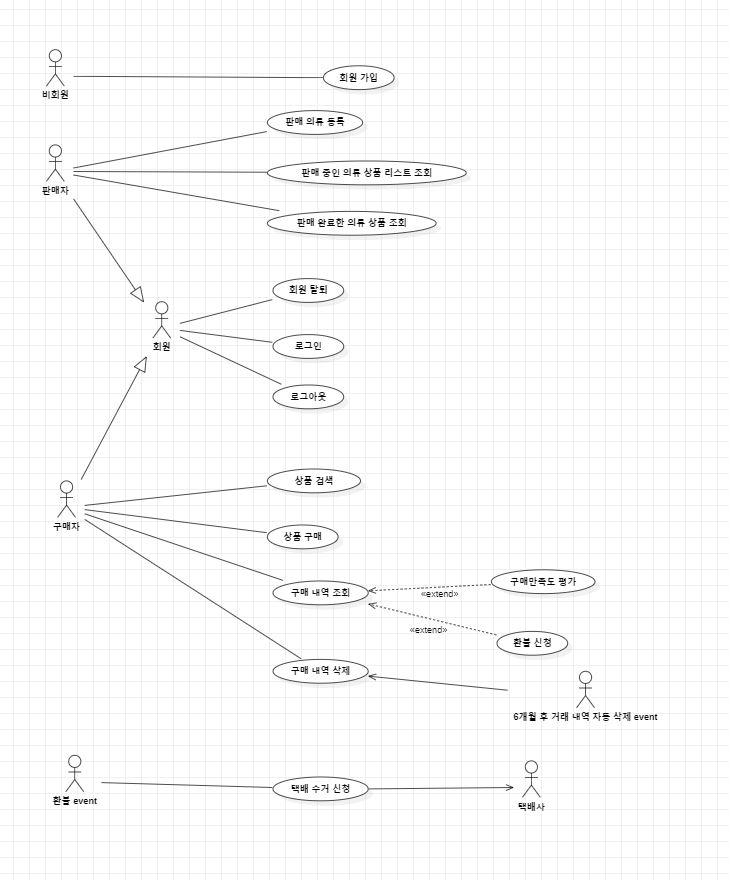
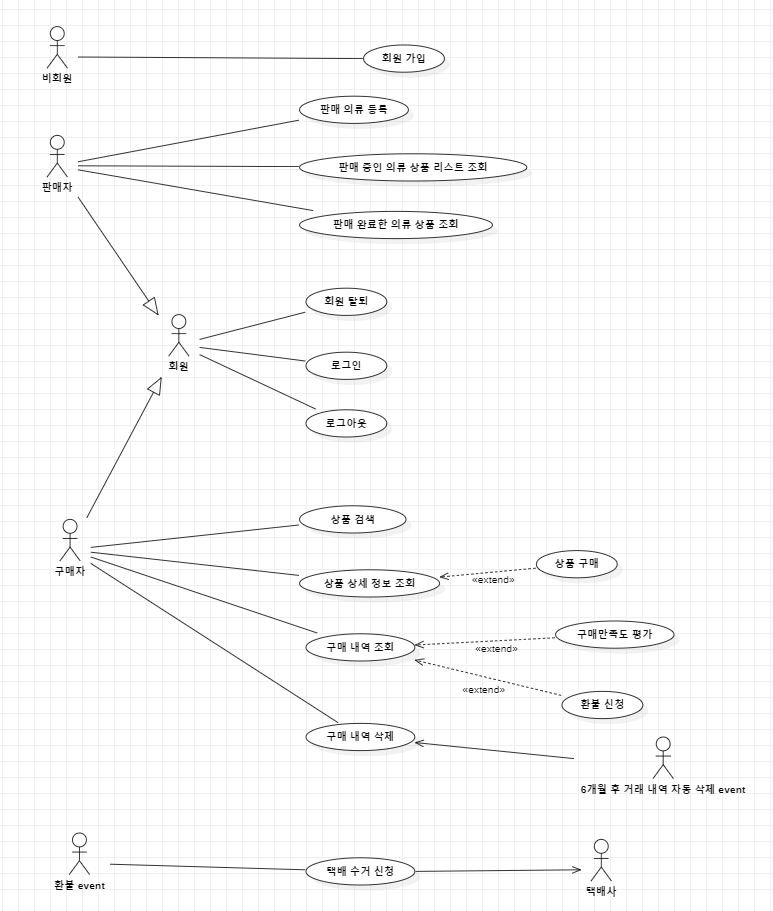
feat: 김준모 requirement list 추가, UseCaseDiagram 수정

diff --git a/Requirement list/김준모/requiremnet list.md b/Requirement list/김준모/requiremnet list.md
@@ -1,0 +1,13 @@
+functional
+=============
+상품 검색 및 구매
+|no|requirements|Use Case|
+|------|---|---|
+|1|검색 조건(상품명, 평균 구매 만족도 중에 하나)을 선택하여 입력하면 해당하는 상품 리스트(상품명 및 평균 구매 만족도 포함)를 상품명의 오름차순으로 정렬하여 출력한다.|상품 검색|
+|2|상품 리스트에서 상품을 선택하면 해당 상품의 상세한 정보(판매자, 상품명, 제작회사명, 가격, 남은 수량, 판매 종료일, 평균 구매만족도)를 출력한다.|상품 상세 정보 조회|
+|3|선택한 상품을 구매한다.|상품 구매|
+|4|구매 내역(상품명, 제작회사명, 판매자, 가격, 평균 구매만족도, 구매일)을 상품명의 오름차순으로 정렬하여 출력한다.|구매 내역 조회|
+|5|구매 내역에서 하나의 상품을 선택하여 구매만족도를 평가한다.|구매 만족도 평가|
+|6|구매 내역에서 하나의 상품을 선택하여 구입 후 4주가 지나지 않은 경우 환불을 신청한다.|환불 신청|
+|7|3개월이 지난 구매 거래 내역 중에서 구매 거래내역을 삭제한다.|구매 내역 삭제|
+|8|물품 수거를 신청한다.|택배 수거 신청|
